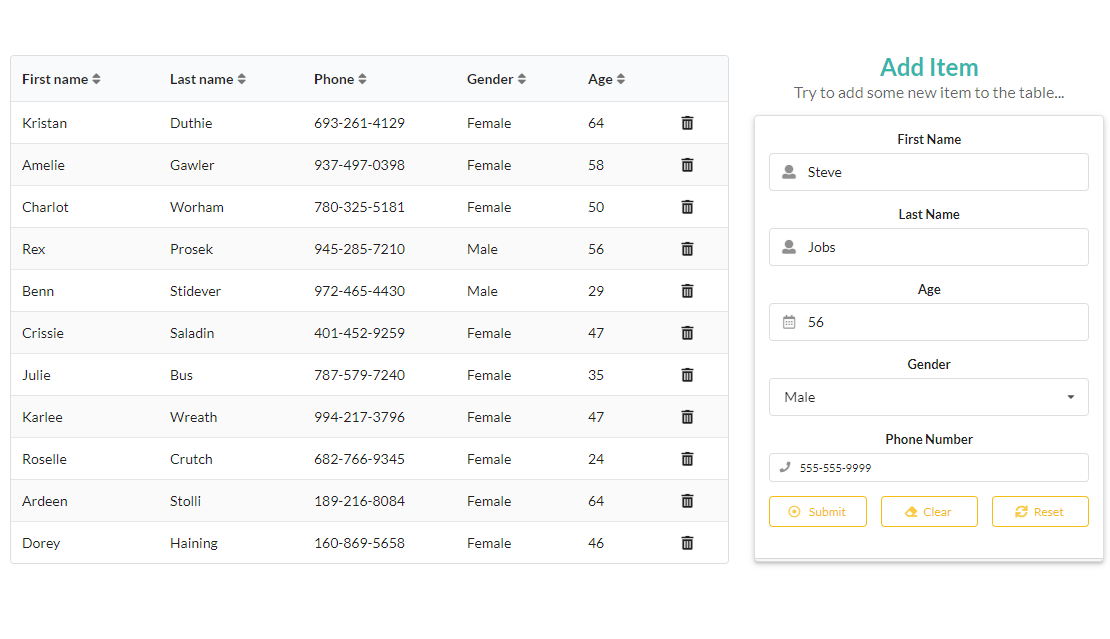
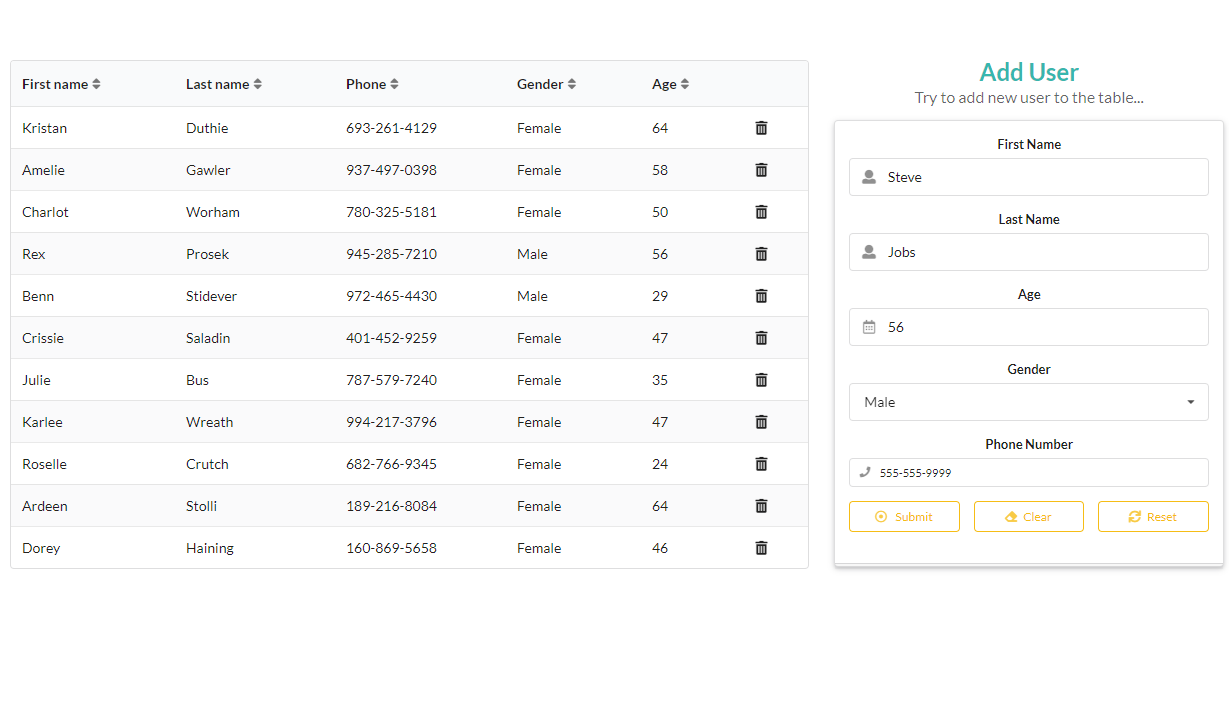
cleanup

diff --git a/client/src/app/components/TableSection.jsx b/client/src/app/components/TableSection.jsx
@@ -2,9 +2,6 @@ import React from 'react';
 import cx from 'classnames';
 import orderBy from 'lodash/orderBy';
 import { Grid, Table, Icon } from 'semantic-ui-react';
-//mock data if needed
-import MOCK_DATA from '../helpers/MOCK_DATA.json';
-//import TableRow from './TableRow';
 import TableRow from '../Containers/TableRow';
 
 const invertDirection = {
@@ -103,34 +100,3 @@ export default class TableSection extends React.Component {
     );
   }
 }
-
-// const tableHeader = (
-//   <Table.Header>
-//     <Table.Row>
-//       <Table.HeaderCell onClick={() => this.handleSort()}>
-//         First Name<Icon name={'sort'} />
-//       </Table.HeaderCell>
-//       <Table.HeaderCell onClick={() => this.handleSort()}>
-//         Last Name<Icon name={'sort'} />
-//       </Table.HeaderCell>
-//       <Table.HeaderCell onClick={() => this.handleSort()}>
-//         Phone<Icon name={'sort'} />
-//       </Table.HeaderCell>
-//       <Table.HeaderCell onClick={() => this.handleSort()}>
-//         gender<Icon name={'sort'} />
-//       </Table.HeaderCell>
-//       <Table.HeaderCell onClick={() => this.handleSort()}>
-//         age<Icon name={'sort'} />
-//       </Table.HeaderCell>
-//     </Table.Row>
-//   </Table.Header>
-// );
-
-// [{
-// 	"id": "d80adb99-4b36-41d4-920f-b7d54b33fd54",
-// 	"firstName": "Kristan",
-// 	"lastName": "Duthie",
-// 	"phone": "693-261-4129",
-// 	"gender": "Female",
-// 	"age": 64
-// }, {

diff --git a/client/src/app/reducer.js b/client/src/app/reducer.js
@@ -1,6 +1,4 @@
 import { combineReducers } from 'redux';
-//mock data
-import MOCK_DATA from './helpers/MOCK_DATA.json';
 
 import {
   FETCH_USERS_PENDING,
@@ -63,12 +61,4 @@ function users(state = usersInitialState, action) {
   }
 }
 
-// export const users = (state = [], action) => {
-//   switch (action.type) {
-//     case 'ACTION_TYPE':
-//       return;
-//     default:
-//       return state;
-//   }
-// };
 export default combineReducers({ users });

diff --git a/client/src/app/components/FormSection.jsx b/client/src/app/components/FormSection.jsx
@@ -117,8 +117,8 @@ class FormSection extends React.Component {
     let formState = {};
     const formHeader = (
       <Header as="h2" color="teal" textAlign="center">
-        Add Item
-        <Header.Subheader>Try to add some new item to the table...</Header.Subheader>
+        Add User
+        <Header.Subheader>Try to add new user to the table...</Header.Subheader>
       </Header>
     );
 

diff --git a/client/src/app/api/usersApi.js b/client/src/app/api/usersApi.js
@@ -23,14 +23,6 @@ export function removeUser(user) {
   });
 }
 
-// export default {
-//   getUsers() {
-//     let url = window.location.href + 'data.json';
-//     return axios.get(url).then(response => {
-//       return response.data;
-//     });
-//   }
-// };
 export default {
   getUsers,
   addUser,

diff --git a/client/src/app/components/TableRow.jsx b/client/src/app/components/TableRow.jsx
@@ -1,7 +1,6 @@
 import React from 'react';
 import cx from 'classnames';
 import { Table, Icon } from 'semantic-ui-react';
-import TableRowItem from './TableRowItem';
 
 export class TableRow extends React.Component {
   render() {
